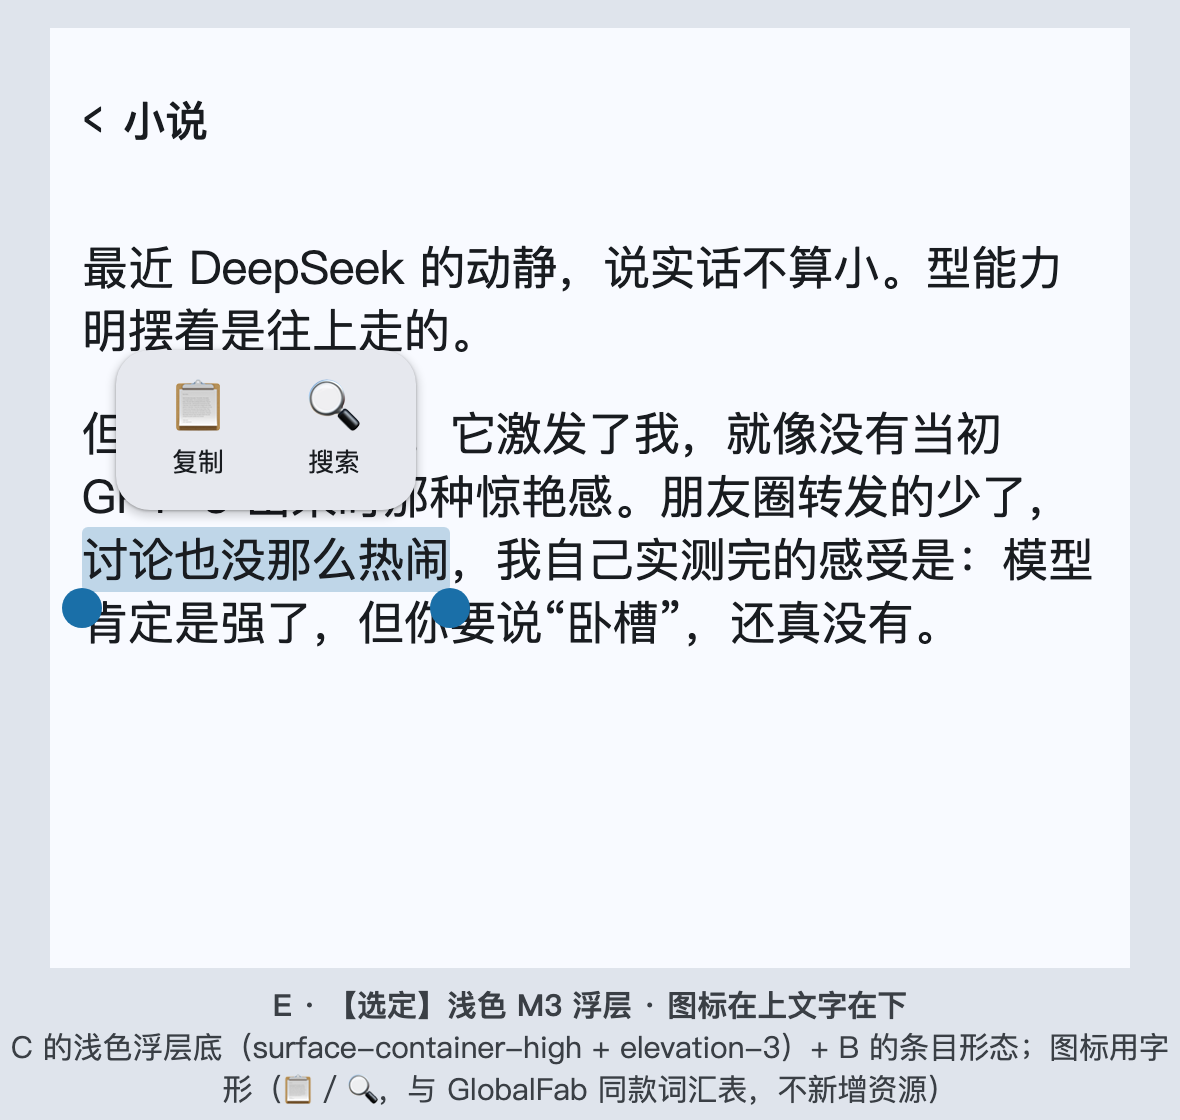
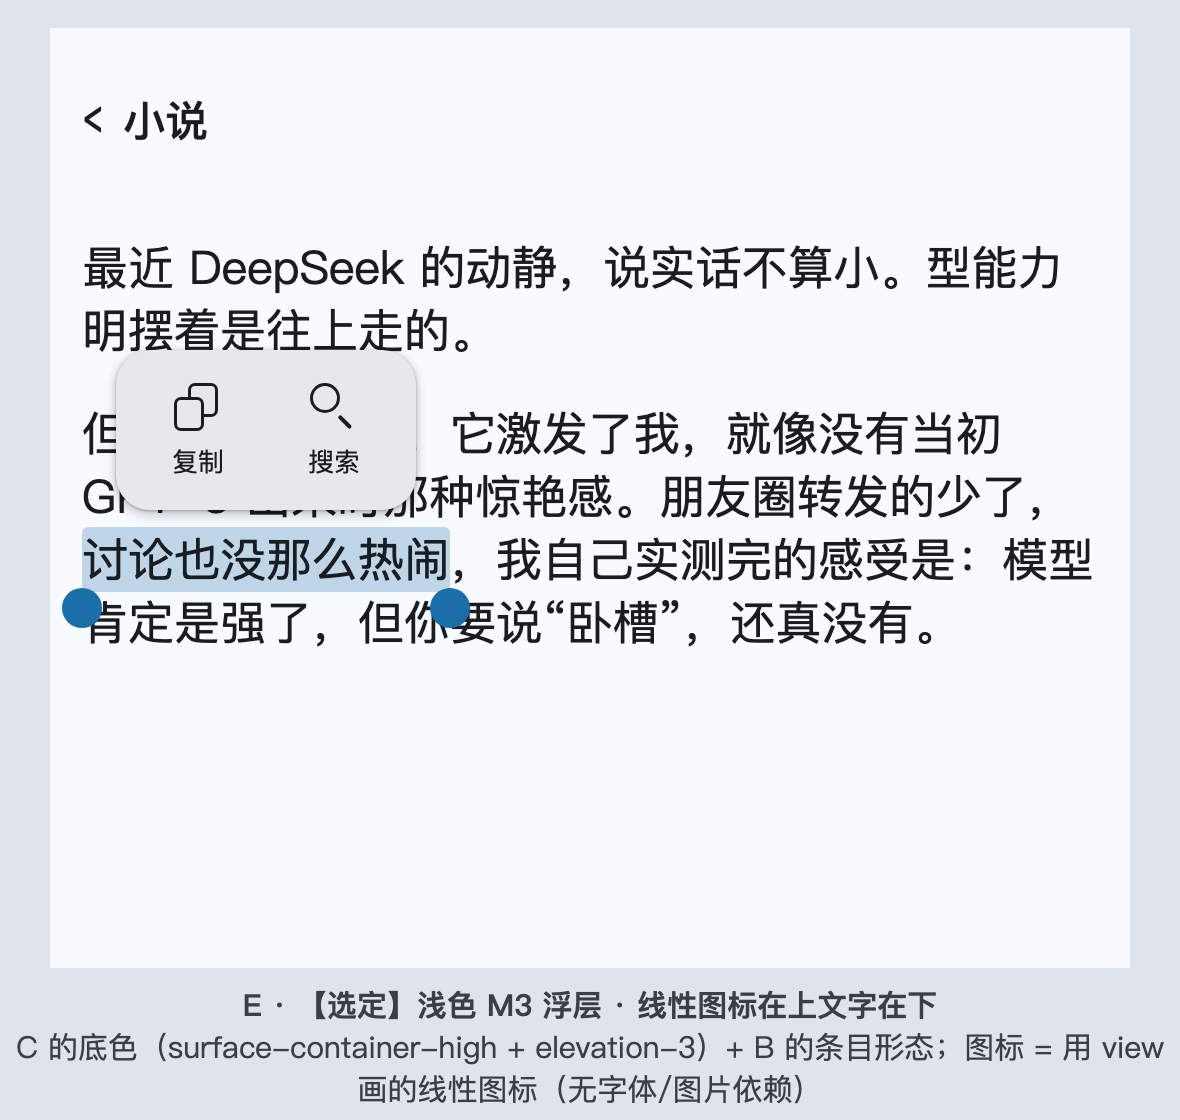
chore(prototype): 图标定为 view 线性图标（I1）并重渲染方案 E

Changed region(s): [[0.0, 0.875, 1.0, 1.0], [0.122, 0.3438, 0.2136, 0.4062], [0.2441, 0.3438, 0.3051, 0.375]]

diff --git a/docs/prototypes/lynx-text-selection-icons.html b/docs/prototypes/lynx-text-selection-icons.html
@@ -1,0 +1,96 @@
+<!doctype html>
+<!--
+  PROTOTYPE（throwaway）：选中菜单的图标处理方式对比（版式固定 = 选定方案 E：
+  浅色 M3 浮层 surface-container-high + elevation-3 + shape-medium，条目「图标在上、文字在下」）。
+  只换图标，不换版式。浏览器直接打开；?only=I1|I2|I3|I4 可只看单个。
+-->
+<html lang="zh-CN"><head><meta charset="utf-8"><title>图标处理方式对比</title>
+<style>
+  :root{
+    --surface:#f8faff; --on-surface:#191c20; --surface-container-high:#e6e8ee;
+    --shape-medium:34px; --elevation-3:0 4px 8px 3px rgba(0,0,0,.15),0 1px 3px rgba(0,0,0,.3);
+  }
+  *{box-sizing:border-box}
+  body{margin:0;padding:32px 0 48px;background:#dfe4ec;color:var(--on-surface);
+       font-family:-apple-system,"PingFang SC","Noto Sans CJK SC",sans-serif}
+  .row{margin:0 auto 28px;width:1080px}
+  .ctx{font-size:40px;line-height:56px;color:var(--on-surface);margin-bottom:18px}
+  .ctx .sel{background:rgba(26,111,168,.26);border-radius:6px}
+  .toolbar{display:inline-flex;gap:4px;padding:14px 16px;border-radius:var(--shape-medium);
+           background:var(--surface-container-high);box-shadow:var(--elevation-3)}
+  .item{width:132px;height:132px;display:flex;flex-direction:column;align-items:center;
+        justify-content:center;gap:10px;font-size:26px}
+  .glyph{font-size:52px;line-height:1}
+  .cap{margin-top:12px;font-size:26px;color:#41474e}
+  /* ── I1：view 画的线性图标（描边）── */
+  .ic{position:relative;width:52px;height:52px;color:var(--on-surface)}
+  .ic .sheet{position:absolute;width:30px;height:34px;border:3px solid currentColor;border-radius:7px}
+  .ic .sheet.back{left:16px;top:2px}
+  .ic .sheet.front{left:2px;top:16px;background:var(--surface-container-high)}
+  .ic .lens{position:absolute;left:2px;top:2px;width:30px;height:30px;border:3px solid currentColor;border-radius:50%}
+  .ic .handle{position:absolute;left:31px;top:33px;width:17px;height:3.5px;background:currentColor;
+              border-radius:2px;transform:rotate(45deg);transform-origin:left center}
+  /* ── I2：符号字形（单色）── */
+  .sym{font-size:50px;line-height:1;font-weight:300}
+  /* ── I3：实心图标 ── */
+  .ic.solid .sheet{background:currentColor;border:none}
+  .ic.solid .sheet.front{box-shadow:0 0 0 3px var(--surface-container-high)}
+  .ic.solid .lens{background:currentColor;border:none}
+  .ic.solid .lens::after{content:'';position:absolute;left:8px;top:8px;width:14px;height:14px;
+                         border-radius:50%;background:var(--surface-container-high)}
+</style></head><body>
+
+<div class="row" data-i="I1">
+  <div class="ctx">朋友圈转发的少了，<span class="sel">讨论也没那么热闹</span>，我自己实测完的感受是</div>
+  <div class="toolbar">
+    <div class="item">
+      <div class="ic"><span class="sheet back"></span><span class="sheet front"></span></div>
+      复制
+    </div>
+    <div class="item">
+      <div class="ic"><span class="lens"></span><span class="handle"></span></div>
+      搜索
+    </div>
+  </div>
+  <div class="cap"><b>I1 · 线性图标（用 view 画：描边 + 圆角，随主题文字色）</b></div>
+</div>
+
+<div class="row" data-i="I2">
+  <div class="ctx">朋友圈转发的少了，<span class="sel">讨论也没那么热闹</span>，我自己实测完的感受是</div>
+  <div class="toolbar">
+    <div class="item"><span class="sym">❐</span>复制</div>
+    <div class="item"><span class="sym">⌕</span>搜索</div>
+  </div>
+  <div class="cap"><b>I2 · 符号字形（❐ / ⌕，单色、跟文字同色）</b></div>
+</div>
+
+<div class="row" data-i="I3">
+  <div class="ctx">朋友圈转发的少了，<span class="sel">讨论也没那么热闹</span>，我自己实测完的感受是</div>
+  <div class="toolbar">
+    <div class="item">
+      <div class="ic solid"><span class="sheet back"></span><span class="sheet front"></span></div>
+      复制
+    </div>
+    <div class="item">
+      <div class="ic solid"><span class="lens"></span><span class="handle"></span></div>
+      搜索
+    </div>
+  </div>
+  <div class="cap"><b>I3 · 实心图标（同样用 view 画，视觉更重）</b></div>
+</div>
+
+<div class="row" data-i="I4">
+  <div class="ctx">朋友圈转发的少了，<span class="sel">讨论也没那么热闹</span>，我自己实测完的感受是</div>
+  <div class="toolbar">
+    <div class="item" style="height:96px">复制</div>
+    <div class="item" style="height:96px">搜索</div>
+  </div>
+  <div class="cap"><b>I4 · 不要图标（纯文字，浮层更矮）</b></div>
+</div>
+
+<script>
+  const q = new URLSearchParams(location.search);
+  const only = (q.get('only') || '').toUpperCase();
+  if (only) for (const r of document.querySelectorAll('.row')) if (r.dataset.i !== only) r.remove();
+</script>
+</body></html>

diff --git a/docs/prototypes/lynx-novel-text-selection-toolbar.html b/docs/prototypes/lynx-novel-text-selection-toolbar.html
@@ -81,6 +81,14 @@
   .v-e .item { width: 132px; height: 132px; display: flex; flex-direction: column; align-items: center;
     justify-content: center; gap: 10px; font-size: 26px; }
   .v-e .glyph { font-size: 52px; line-height: 1; }
+  /* 线性图标 = 用 view 画（与 lynx 实现同构：border + border-radius + rotate） */
+  .ic { position: relative; width: 52px; height: 52px; color: var(--on-surface); }
+  .ic .sheet { position: absolute; width: 30px; height: 34px; border: 3px solid currentColor; border-radius: 7px; }
+  .ic .sheet.back { left: 16px; top: 2px; }
+  .ic .sheet.front { left: 2px; top: 16px; background: var(--surface-container-high); }
+  .ic .lens { position: absolute; left: 2px; top: 2px; width: 30px; height: 30px; border: 3px solid currentColor; border-radius: 50%; }
+  .ic .handle { position: absolute; left: 31px; top: 33px; width: 17px; height: 3.5px; background: currentColor;
+                border-radius: 2px; transform: rotate(45deg); transform-origin: left center; }
   .cap { margin-top: 16px; font-size: 30px; color: #3a3f45; text-align: center; }
   /* ── 切换条（原型专用，明显不属于设计）── */
   #switcher { position: fixed; bottom: 24px; left: 50%; transform: translateX(-50%);
@@ -124,8 +132,8 @@
          items: '<span class="item">' + COPY_ICON + '复制</span><span class="item">' + SEARCH_ICON + '搜索</span>' },
     D: { name: '极简浮层 · 分隔线', note: '半透明白底 + 描边，双条目用竖线分隔；遮挡最小、最“轻”',
          items: '<span class="item">复制</span><span class="sep"></span><span class="item">搜索</span>' },
-    E: { name: '【选定】浅色 M3 浮层 · 图标在上文字在下', note: 'C 的浅色浮层底（surface-container-high + elevation-3）+ B 的条目形态；图标用字形（📋 / 🔍，与 GlobalFab 同款词汇表，不新增资源）',
-         items: '<span class="item"><span class="glyph">📋</span>复制</span><span class="item"><span class="glyph">🔍</span>搜索</span>' },
+    E: { name: '【选定】浅色 M3 浮层 · 线性图标在上文字在下', note: 'C 的底色（surface-container-high + elevation-3）+ B 的条目形态；图标 = 用 view 画的线性图标（无字体/图片依赖）',
+         items: '<span class="item"><span class="ic"><span class="sheet back"></span><span class="sheet front"></span></span>复制</span><span class="item"><span class="ic"><span class="lens"></span><span class="handle"></span></span>搜索</span>' },
   };
 
   const params = new URLSearchParams(location.search);
